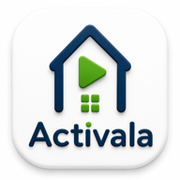
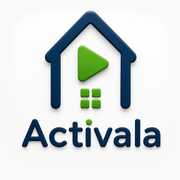
Iconos a sangre (Por dónde voy, Acumula, Activala) y un poco de relieve en los marcos del Grupo Saneas

Changed region(s): [[0.0833, 0.0556, 0.9444, 0.9722], [0.0556, 0.75, 0.0833, 0.8056]]

diff --git a/assets/js/grupo-saneas.js b/assets/js/grupo-saneas.js
@@ -122,7 +122,9 @@ var GrupoSaneas = (function(){
   }
 
   function porId(id){ var l=todas(); for(var i=0;i<l.length;i++) if(l[i].id===id) return l[i]; return null; }
-  function src(m){ return m.logo ? (CFG.logos+m.logo) : ''; }
+  // ?v= en los iconos: al cambiar uno (16/10/2026, iconos a sangre) nadie se queda con el viejo en caché
+  var LOGOS_V = '2';
+  function src(m){ return m.logo ? (CFG.logos+m.logo+'?v='+LOGOS_V) : ''; }
   // Marcas sin PNG (los sub-productos): baldosa naranja con dos figuras,
   // una detrás de otra — se entiende de un vistazo que son personas.
   var SVG_PERSONAS = '<svg viewBox="0 0 24 24" fill="none" stroke="#fff" stroke-width="2" '
@@ -173,7 +175,7 @@ var GrupoSaneas = (function(){
       '.gs-qr-pie{font-size:14px;color:#3d4f59;margin:0 6px 16px}',
       '.gs-ir.gs-wa{background:#25D366}',
       '.gs-fila img{width:52px;height:52px;border-radius:14px;object-fit:cover;flex:none;background:#fff;',
-        'box-shadow:0 3px 10px rgba(16,40,48,.12)}',
+        'box-shadow:0 1px 2px rgba(16,40,48,.18),0 4px 12px rgba(16,40,48,.14);outline:1px solid rgba(16,40,48,.10);outline-offset:-1px}',
       '.gs-tx{min-width:0;text-align:left}',
       '.gs-tx b{display:block;font-size:17px;font-weight:800;color:#22313a;line-height:1.25}',
       '.gs-tx span{display:block;font-size:16px;color:#3d4f59;line-height:1.55;margin-top:5px}',
@@ -183,11 +185,11 @@ var GrupoSaneas = (function(){
       '.gs-item{display:flex;flex-direction:column;align-items:center;gap:7px;background:none;border:0;',
         'padding:0;cursor:pointer;font-family:inherit}',
       '.gs-item img{width:60px;height:60px;border-radius:16px;object-fit:cover;background:#fff;',
-        'box-shadow:0 4px 12px rgba(16,40,48,.16)}',
+        'box-shadow:0 1px 2px rgba(16,40,48,.2),0 5px 14px rgba(16,40,48,.16);outline:1px solid rgba(16,40,48,.10);outline-offset:-1px}',
       '.gs-item b{font-size:14px;font-weight:700;color:#22313a;line-height:1.25;text-align:center}',
       '.gs-ficha{text-align:center;padding:6px 4px 2px}',
       '.gs-ficha img{width:96px;height:96px;border-radius:24px;object-fit:cover;background:#fff;',
-        'box-shadow:0 8px 22px rgba(16,40,48,.2)}',
+        'box-shadow:0 2px 4px rgba(16,40,48,.2),0 10px 24px rgba(16,40,48,.2);outline:1px solid rgba(16,40,48,.10);outline-offset:-1px}',
       '.gs-ficha h3{font-size:24px;font-weight:800;color:#22313a;margin:14px 0 8px}',
       '.gs-ficha p{font-size:17px;color:#3d4f59;line-height:1.55;margin:0 6px 18px}',
       '.gs-ir{display:block;background:#3890a4;color:#fff;border:0;border-radius:14px;padding:14px;',

diff --git a/de/activar.html b/de/activar.html
@@ -503,7 +503,7 @@ document.getElementById('fInteresados').addEventListener('submit', async ev=>{
 </script>
 <script src="/js/idioma-guardado.js"></script>
 <script src="/js/telemetria.js" defer></script>
-<script src="/assets/js/grupo-saneas.js?v=4"></script>
+<script src="/assets/js/grupo-saneas.js?v=5"></script>
 <script>
 GrupoSaneas.init({ actual: "activala", logos: "/assets/img/", barra: "header", extras: [
   { id: "academia", nombre: "Academia Saneas", url: "https://saneas.es/academia",

diff --git a/de/alquilar.html b/de/alquilar.html
@@ -432,7 +432,7 @@ document.getElementById('fInteresados').addEventListener('submit', async ev=>{
 </script>
 <script src="/js/idioma-guardado.js"></script>
 <script src="/js/telemetria.js" defer></script>
-<script src="/assets/js/grupo-saneas.js?v=4"></script>
+<script src="/assets/js/grupo-saneas.js?v=5"></script>
 <script>
 GrupoSaneas.init({ actual: "activala", logos: "/assets/img/", barra: "header", extras: [
   { id: "academia", nombre: "Academia Saneas", url: "https://saneas.es/academia",

diff --git a/en/activar.html b/en/activar.html
@@ -503,7 +503,7 @@ document.getElementById('fInteresados').addEventListener('submit', async ev=>{
 </script>
 <script src="/js/idioma-guardado.js"></script>
 <script src="/js/telemetria.js" defer></script>
-<script src="/assets/js/grupo-saneas.js?v=4"></script>
+<script src="/assets/js/grupo-saneas.js?v=5"></script>
 <script>
 GrupoSaneas.init({ actual: "activala", logos: "/assets/img/", barra: "header", extras: [
   { id: "academia", nombre: "Academia Saneas", url: "https://saneas.es/academia",

diff --git a/en/alquilar.html b/en/alquilar.html
@@ -432,7 +432,7 @@ document.getElementById('fInteresados').addEventListener('submit', async ev=>{
 </script>
 <script src="/js/idioma-guardado.js"></script>
 <script src="/js/telemetria.js" defer></script>
-<script src="/assets/js/grupo-saneas.js?v=4"></script>
+<script src="/assets/js/grupo-saneas.js?v=5"></script>
 <script>
 GrupoSaneas.init({ actual: "activala", logos: "/assets/img/", barra: "header", extras: [
   { id: "academia", nombre: "Academia Saneas", url: "https://saneas.es/academia",

diff --git a/no/activar.html b/no/activar.html
@@ -503,7 +503,7 @@ document.getElementById('fInteresados').addEventListener('submit', async ev=>{
 </script>
 <script src="/js/idioma-guardado.js"></script>
 <script src="/js/telemetria.js" defer></script>
-<script src="/assets/js/grupo-saneas.js?v=4"></script>
+<script src="/assets/js/grupo-saneas.js?v=5"></script>
 <script>
 GrupoSaneas.init({ actual: "activala", logos: "/assets/img/", barra: "header", extras: [
   { id: "academia", nombre: "Academia Saneas", url: "https://saneas.es/academia",

diff --git a/no/alquilar.html b/no/alquilar.html
@@ -432,7 +432,7 @@ document.getElementById('fInteresados').addEventListener('submit', async ev=>{
 </script>
 <script src="/js/idioma-guardado.js"></script>
 <script src="/js/telemetria.js" defer></script>
-<script src="/assets/js/grupo-saneas.js?v=4"></script>
+<script src="/assets/js/grupo-saneas.js?v=5"></script>
 <script>
 GrupoSaneas.init({ actual: "activala", logos: "/assets/img/", barra: "header", extras: [
   { id: "academia", nombre: "Academia Saneas", url: "https://saneas.es/academia",

diff --git a/sv/activar.html b/sv/activar.html
@@ -503,7 +503,7 @@ document.getElementById('fInteresados').addEventListener('submit', async ev=>{
 </script>
 <script src="/js/idioma-guardado.js"></script>
 <script src="/js/telemetria.js" defer></script>
-<script src="/assets/js/grupo-saneas.js?v=4"></script>
+<script src="/assets/js/grupo-saneas.js?v=5"></script>
 <script>
 GrupoSaneas.init({ actual: "activala", logos: "/assets/img/", barra: "header", extras: [
   { id: "academia", nombre: "Academia Saneas", url: "https://saneas.es/academia",

diff --git a/sv/alquilar.html b/sv/alquilar.html
@@ -432,7 +432,7 @@ document.getElementById('fInteresados').addEventListener('submit', async ev=>{
 </script>
 <script src="/js/idioma-guardado.js"></script>
 <script src="/js/telemetria.js" defer></script>
-<script src="/assets/js/grupo-saneas.js?v=4"></script>
+<script src="/assets/js/grupo-saneas.js?v=5"></script>
 <script>
 GrupoSaneas.init({ actual: "activala", logos: "/assets/img/", barra: "header", extras: [
   { id: "academia", nombre: "Academia Saneas", url: "https://saneas.es/academia",

diff --git a/activar.html b/activar.html
@@ -494,7 +494,7 @@ document.getElementById('fInteresados').addEventListener('submit', async ev=>{
 </script>
 <script src="/js/i18n.js"></script>
 <script src="/js/telemetria.js" defer></script>
-<script src="/assets/js/grupo-saneas.js?v=4"></script>
+<script src="/assets/js/grupo-saneas.js?v=5"></script>
 <script>
 GrupoSaneas.init({ actual: "activala", logos: "/assets/img/", barra: "header", extras: [
   { id: "academia", nombre: "Academia Saneas", url: "https://saneas.es/academia",

diff --git a/alquilar.html b/alquilar.html
@@ -423,7 +423,7 @@ document.getElementById('fInteresados').addEventListener('submit', async ev=>{
 </script>
 <script src="/js/i18n.js"></script>
 <script src="/js/telemetria.js" defer></script>
-<script src="/assets/js/grupo-saneas.js?v=4"></script>
+<script src="/assets/js/grupo-saneas.js?v=5"></script>
 <script>
 GrupoSaneas.init({ actual: "activala", logos: "/assets/img/", barra: "header", extras: [
   { id: "academia", nombre: "Academia Saneas", url: "https://saneas.es/academia",

diff --git a/de/index.html b/de/index.html
@@ -313,7 +313,7 @@ footer .copy{font-size:12px;color:var(--suave);margin-top:30px}
 
 <script src="/js/idioma-guardado.js"></script>
 <script src="/js/telemetria.js" defer></script>
-<script src="/assets/js/grupo-saneas.js?v=4"></script>
+<script src="/assets/js/grupo-saneas.js?v=5"></script>
 <script>
 GrupoSaneas.init({ actual: "activala", logos: "/assets/img/", barra: "header", extras: [
   { id: "academia", nombre: "Academia Saneas", url: "https://saneas.es/academia",
